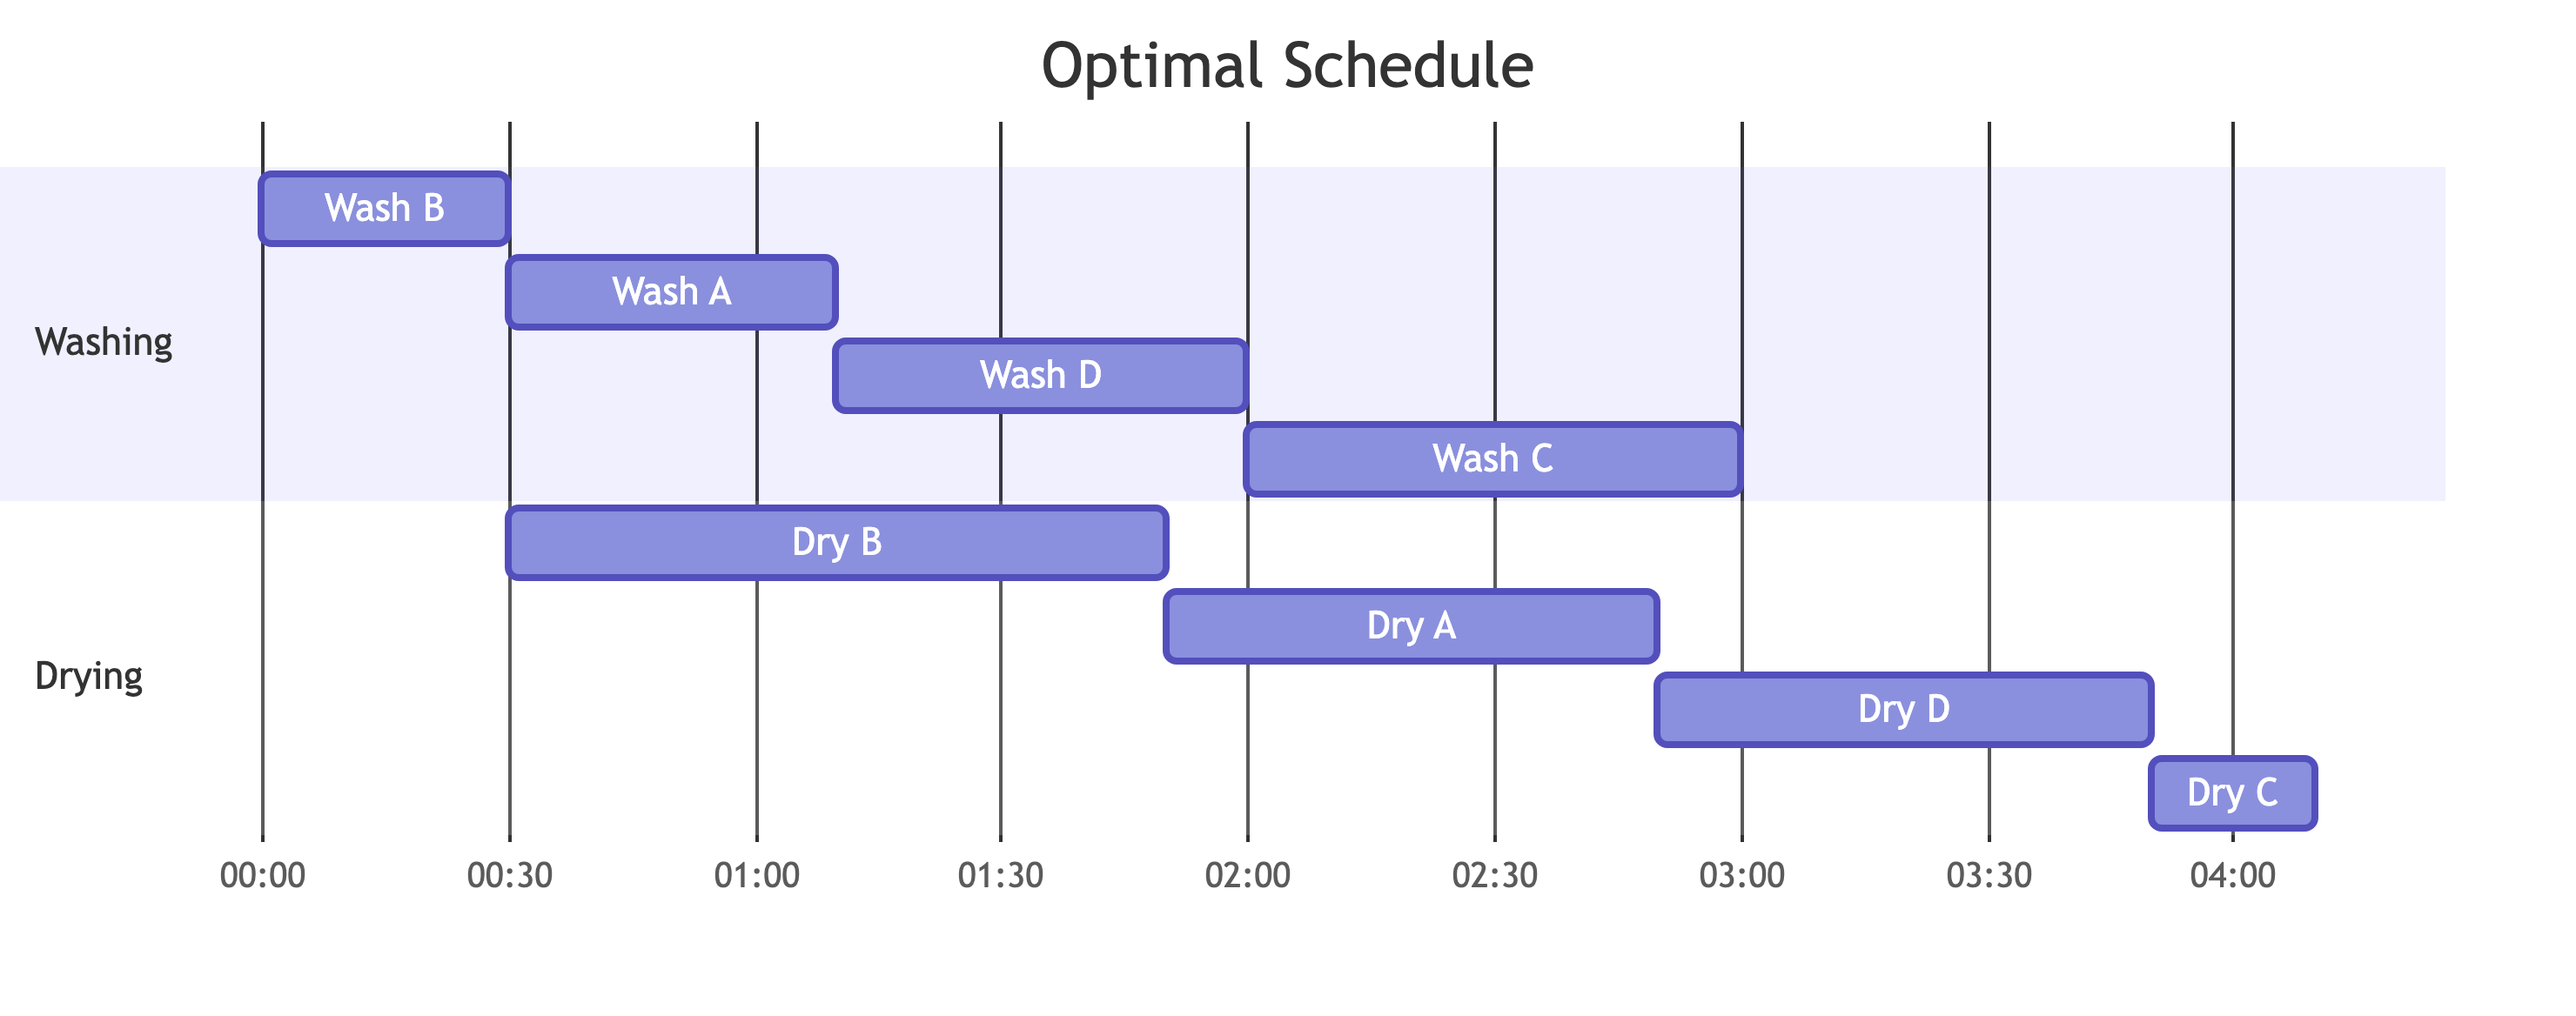
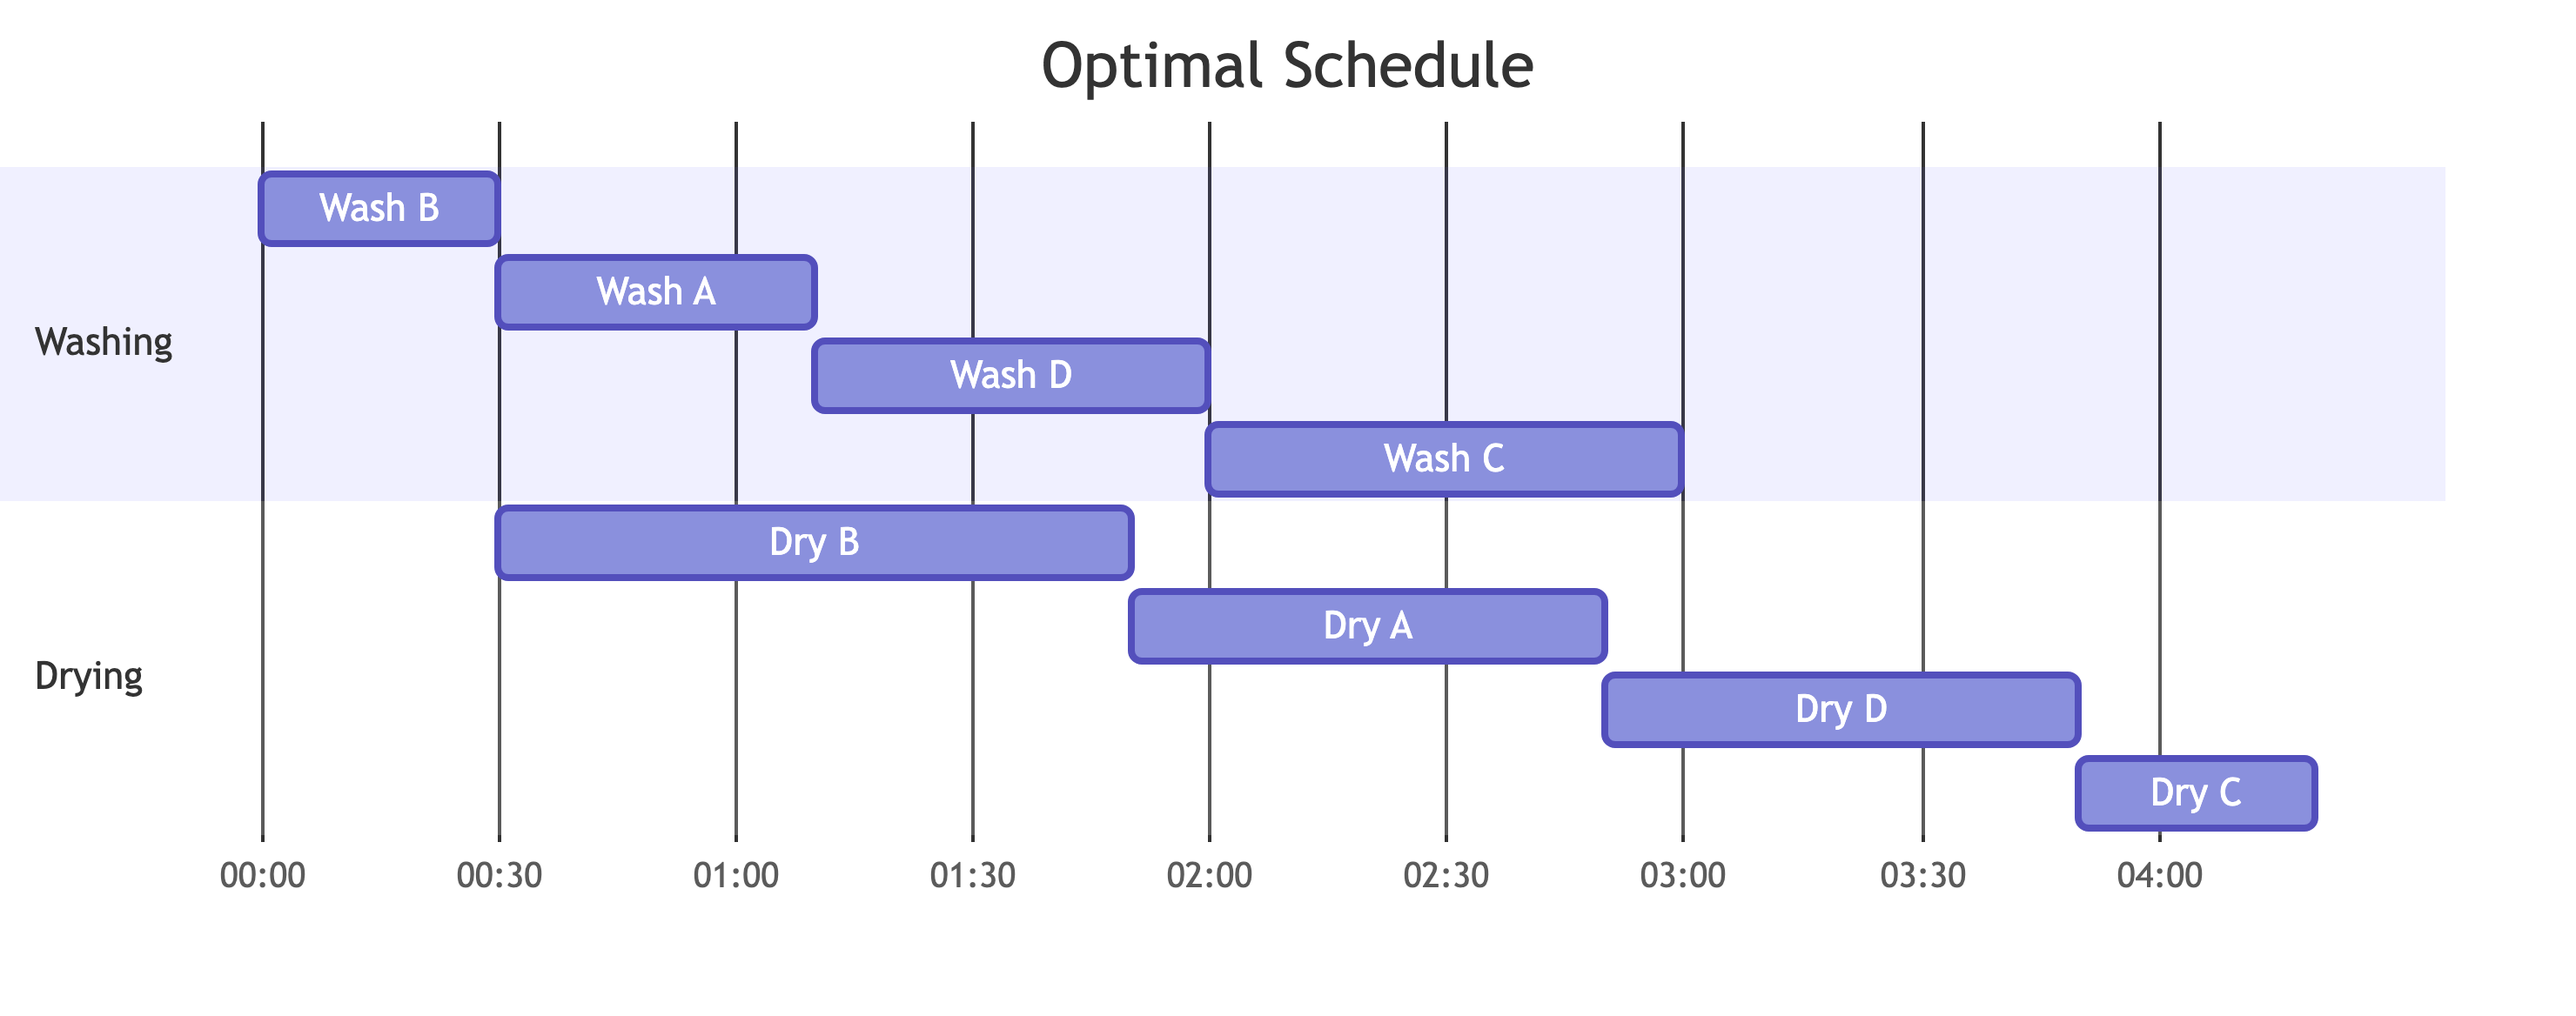
updated intro

diff --git a/styles.scss b/styles.scss
@@ -69,8 +69,9 @@ $lec-code-inline:  #4B7282 !default;   // 4.61:1
 
 // Quarto's slide grey ($text-muted, body colour lightened 30 %: #7C8998) is
 // 3.51:1 on the page ground. Footer, slide number, slide blockquotes and
-// asides take a darker grey.
-$lec-slide-muted:  #697480 !default;   // 4.70:1 / 4.60:1 on #FCFBF8
+// asides take a darker grey. It has to hold on the section slides too, which
+// sit on `codeline`: #697480 was 4.70:1 on the page and 4.21:1 there.
+$lec-slide-muted:  #646C76 !default;   // page 5.24:1 / 5.14:1, codeline 4.71:1 / 4.63:1
 
 // ── Callouts ──────────────────────────────────────────────────────────────
 $lec-callout-note:      #FCCF9C !default;   // = oneLight
@@ -611,6 +612,24 @@ body.quarto-light {
 .reveal:not(.has-dark-background) .slide aside,
 .reveal:not(.has-dark-background) .slide div.aside {
     color: $lec-slide-muted;
+}
+
+// Footer and slide number while a `.loud-slide` is showing. Both belong to the
+// deck, not to the slide, so the slide's colours never reached them: the grey
+// above is 1.08:1 on the accent ground and the link red 1.68:1. They take the
+// slide's own light text colour, 4.36:1, the most this ground allows. A slide
+// in a stack that is not showing keeps its `.present`, so the stack is checked
+// as well. The printed deck gets the same from create_pdf.py (`on-dark-bg`).
+.reveal:has(.slides > section.present.loud-slide,
+            .slides > section.present > section.present.loud-slide) {
+    .footer, .footer a:any-link, .slide-number {
+        color: $brand-lighter;
+    }
+    // The menu icon is an SVG with the link red painted in (1.68:1 here), so
+    // `color` does not reach it; the filter turns it white.
+    .slide-menu-button .fa-bars::before {
+        filter: brightness(0) invert(1);
+    }
 }
 
 // Document pages without a TOC (quizzes, exams with `toc: false`) get Quarto's
